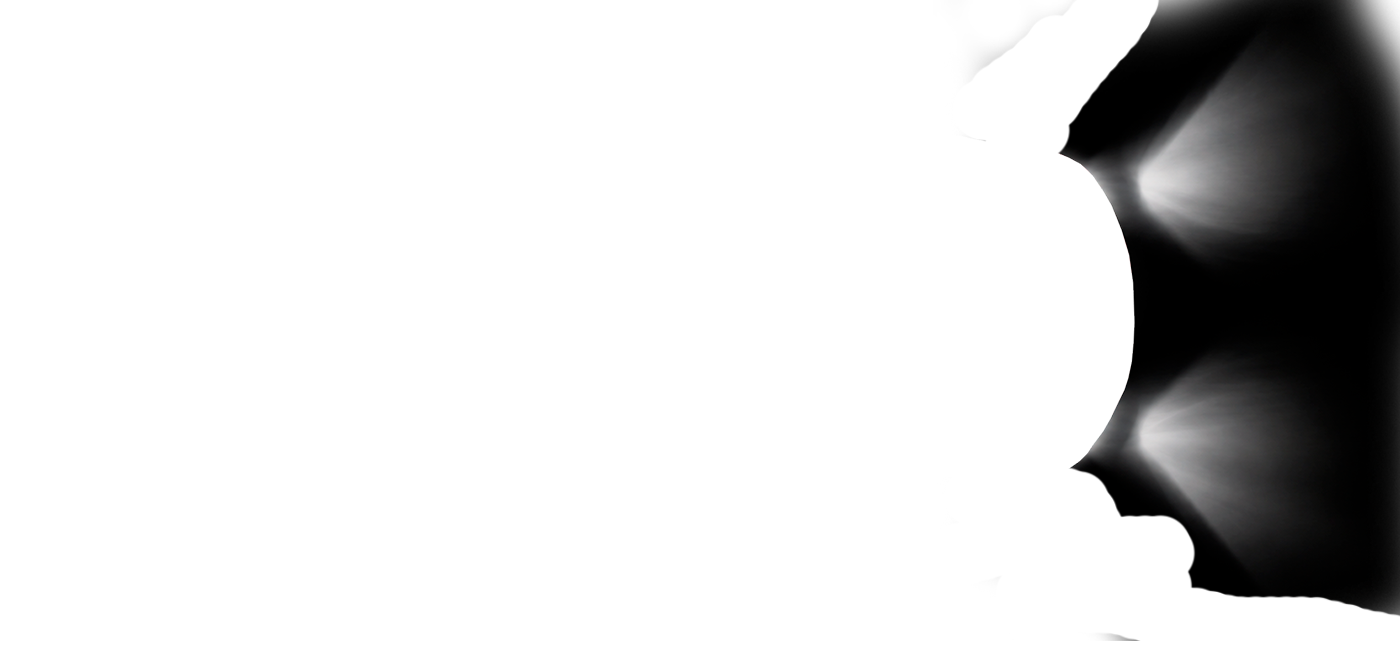
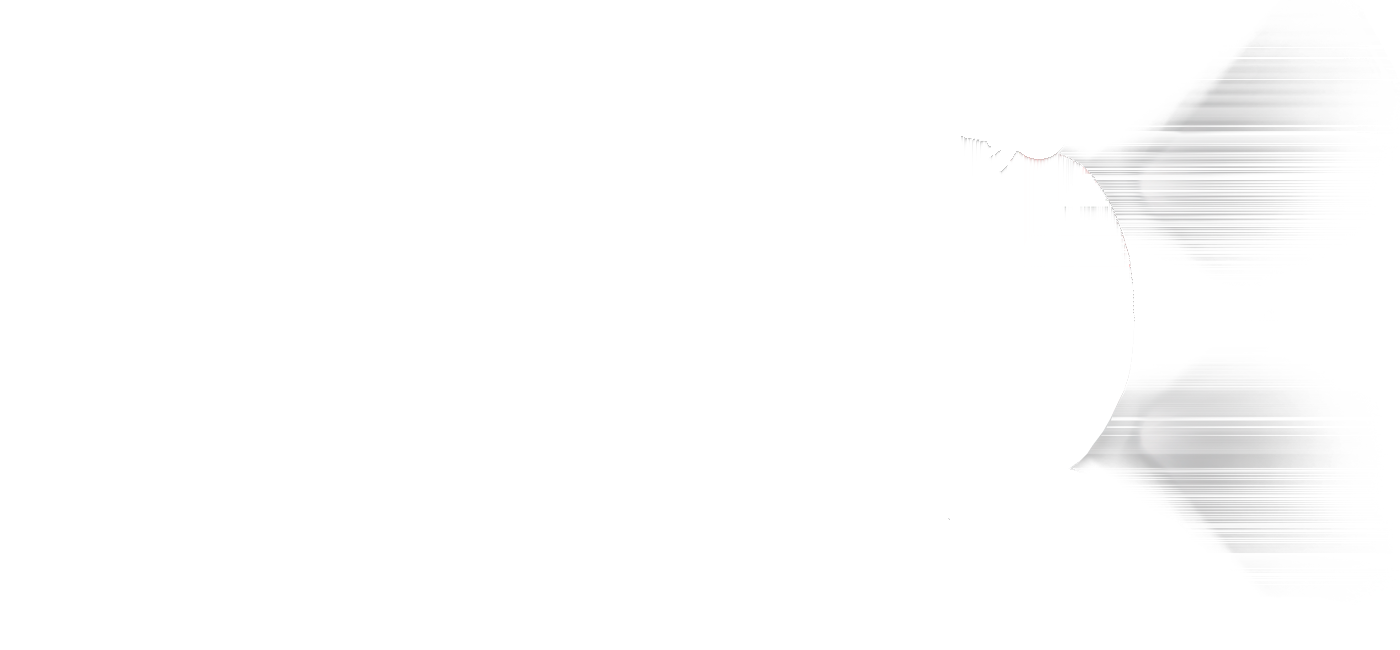
Remove dark background from headlight overlay

Changed region(s): [[0.7371, 0.0, 1.0, 0.9538]]

diff --git a/index.html b/index.html
@@ -729,7 +729,7 @@ function(){var a=[],c={},b;h(B(),function(d){var f=d.param,e;if(f.defer){var g=!
 <link rel="preconnect" href="https://fonts.googleapis.com">
 <link rel="preconnect" href="https://fonts.gstatic.com" crossorigin>
 <link href="https://fonts.googleapis.com/css2?family=Manrope:wght@400;800&family=Montserrat:wght@500;700&display=swap" rel="stylesheet">
-<link rel="stylesheet" href="netcat_template/template/10/11/home_test_hero/hero.css?v=20261108-3">
+<link rel="stylesheet" href="netcat_template/template/10/11/home_test_hero/hero.css?v=20261108-4">
 <link rel="stylesheet" href="netcat_template/template/10/cache/redesign.css?v=20261108-2">
 <div class="toyama-home-test" data-toyama-home-test>
   <section class="mhero" aria-labelledby="toyama-home-test-title">
